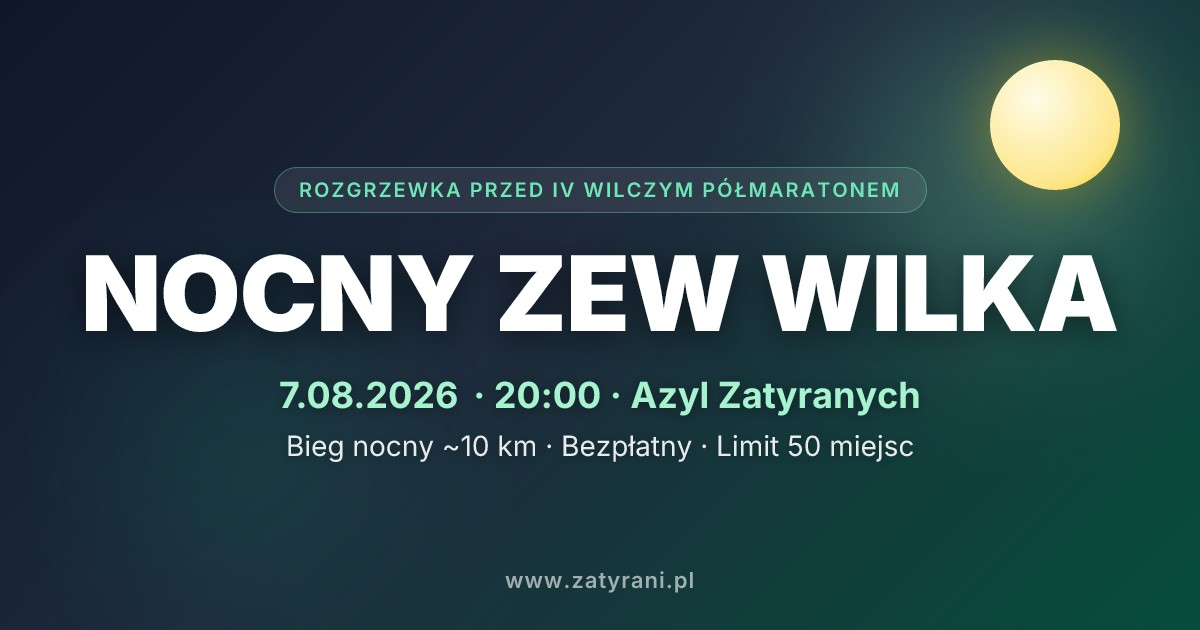
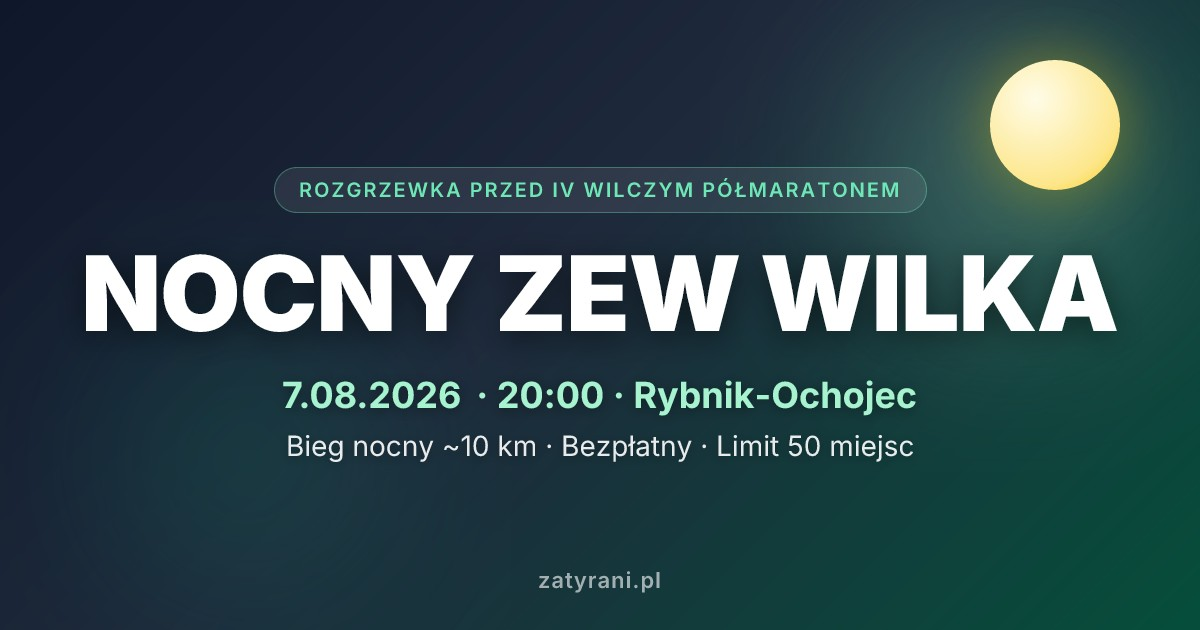
fix(zewwilka): OG location to Rybnik-Ochojec, drop www, pine trees in hero
- OG image: place reads "Rybnik-Ochojec" (not Azyl Zatyranych), footer "zatyrani.pl"
- landing hero: replaced mountain-like triangles with a tiling pine-forest
  silhouette (conifers with trunks) — it's a forest trail run

Changed region(s): [[0.2158, 0.6032, 0.7708, 0.6635], [0.4008, 0.9048, 0.5858, 0.9349]]

diff --git a/scripts/generate-zewwilka-og.tsx b/scripts/generate-zewwilka-og.tsx
@@ -116,7 +116,7 @@ const ZewWilkaImage = () => {
           marginBottom: '12px',
         }}
       >
-        7.08.2026 · 20:00 · Azyl Zatyranych
+        7.08.2026 · 20:00 · Rybnik-Ochojec
       </div>
 
       {/* Facts */}
@@ -144,7 +144,7 @@ const ZewWilkaImage = () => {
           letterSpacing: '1px',
         }}
       >
-        www.zatyrani.pl
+        zatyrani.pl
       </div>
     </div>
   )